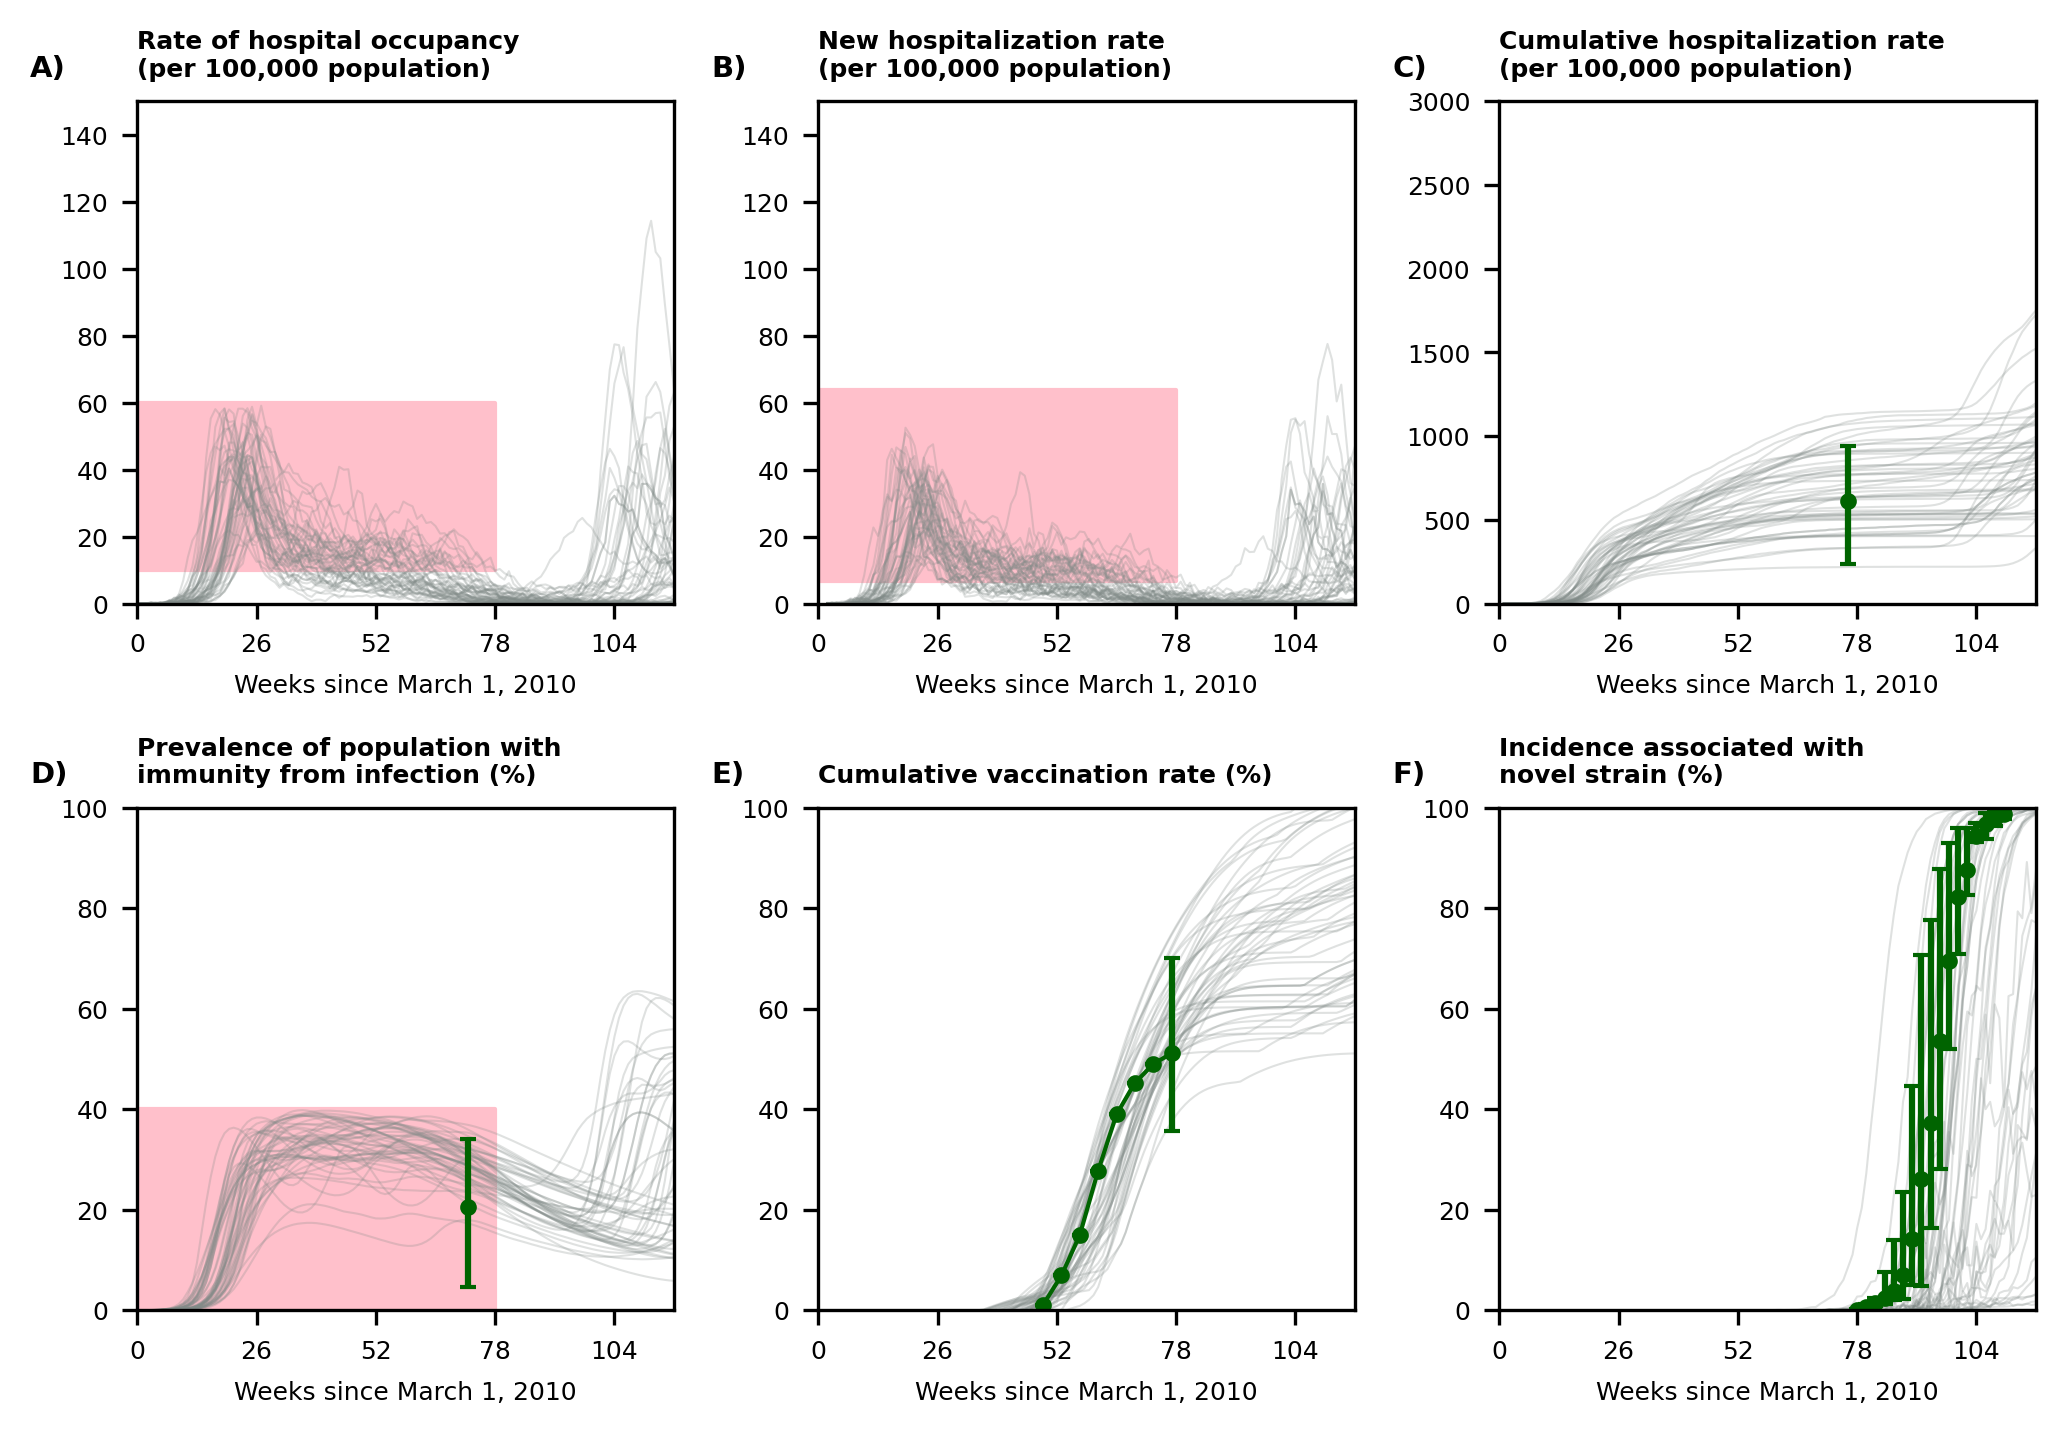
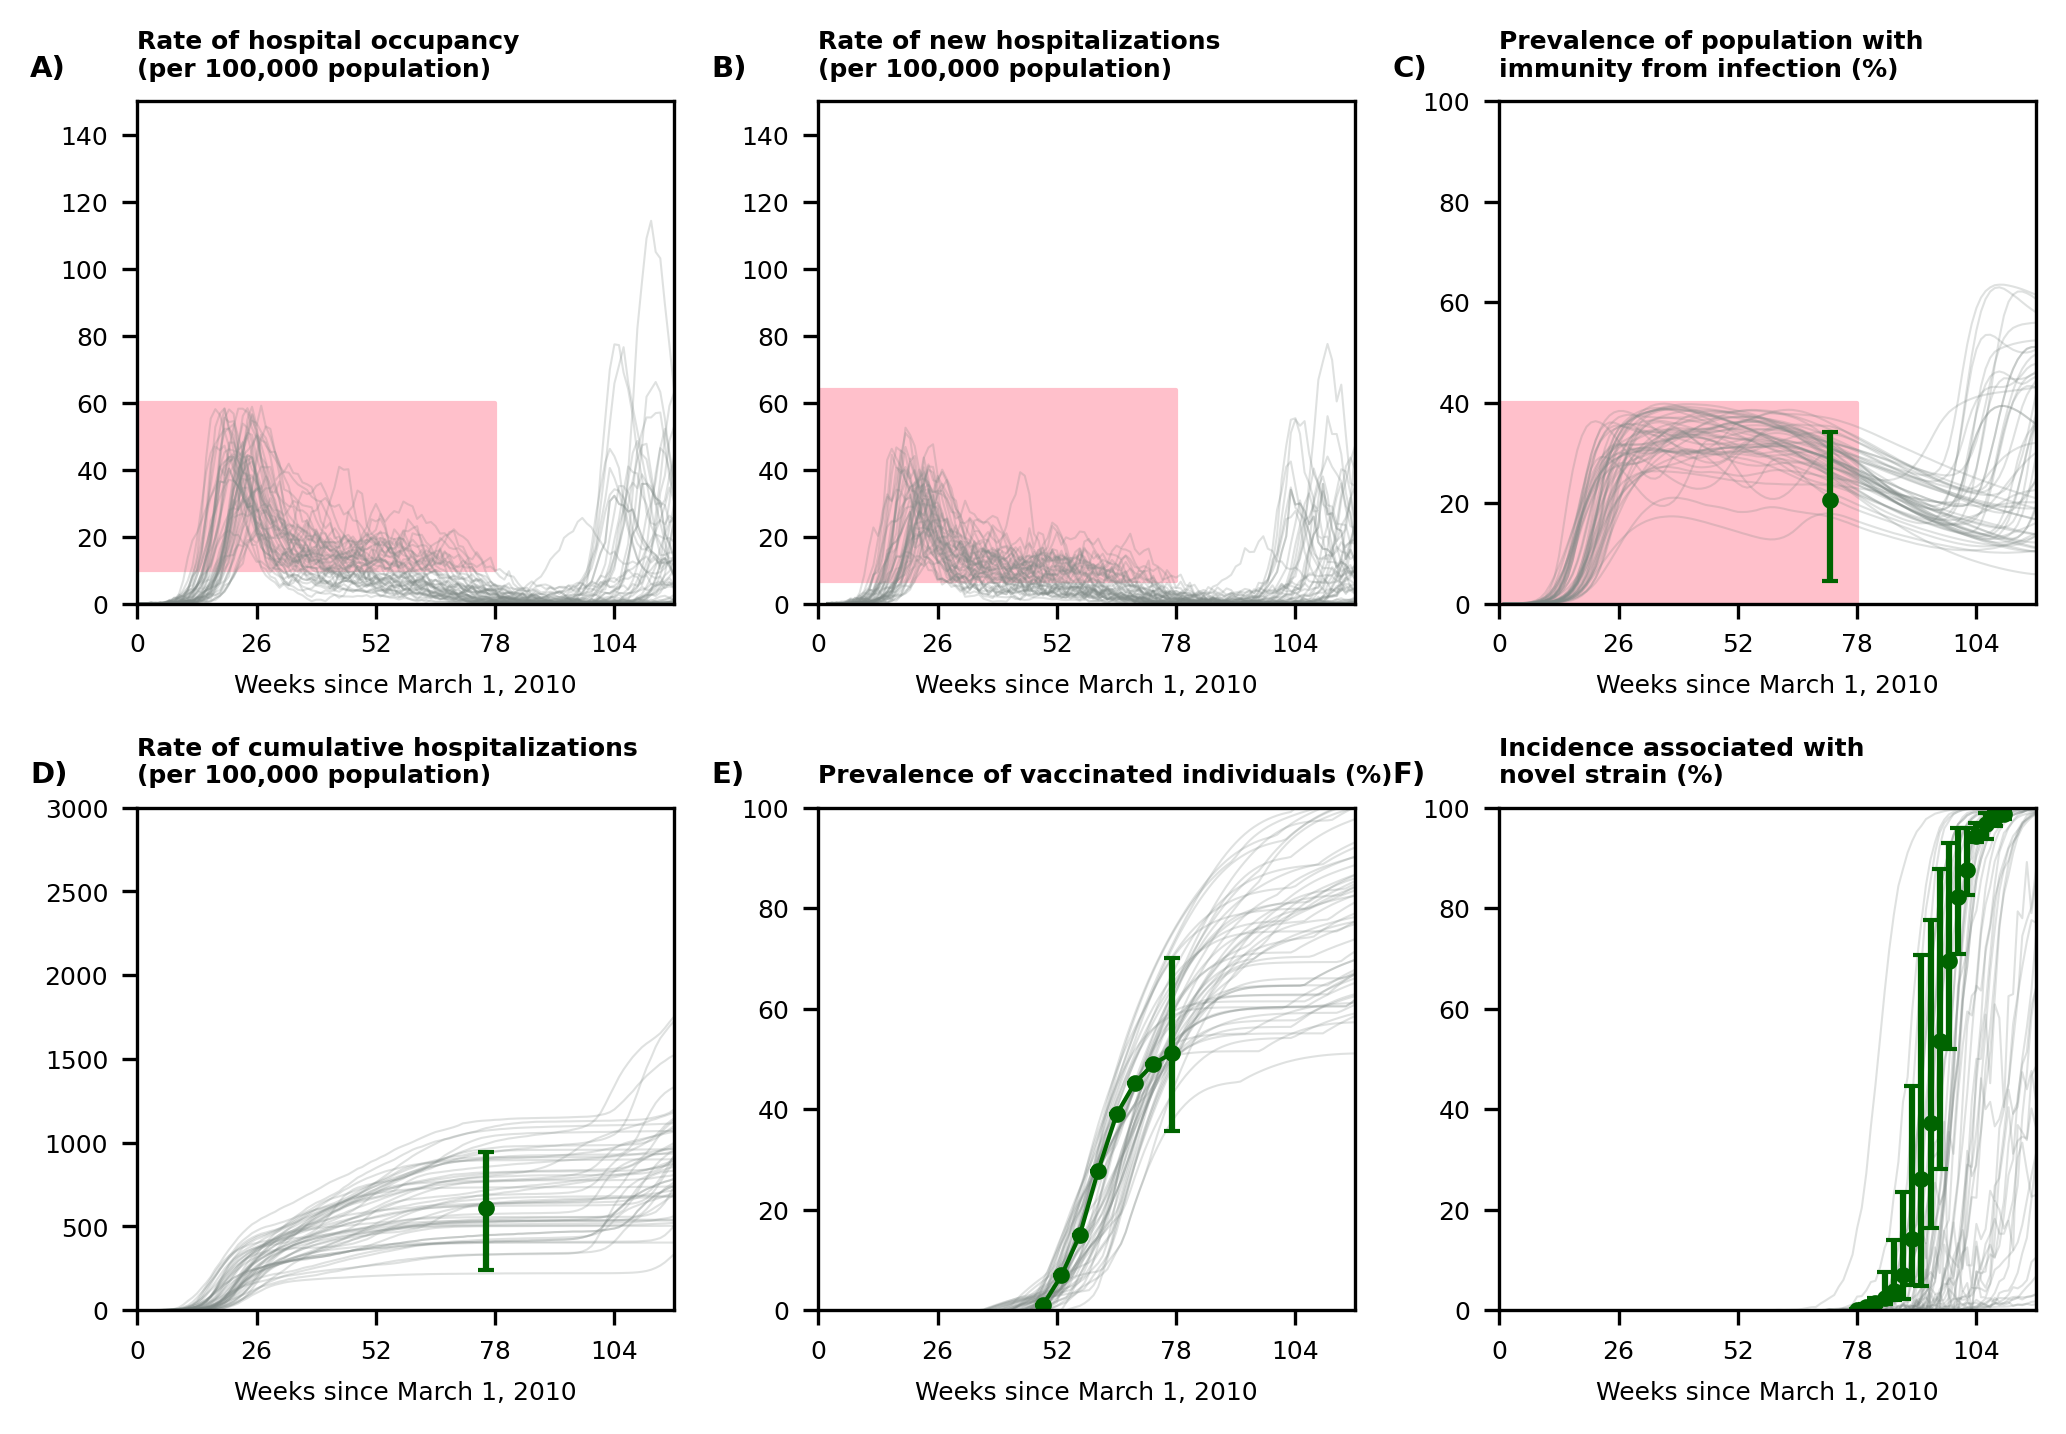
added hosp occupancy as calibration target

diff --git a/covid_visualization/plot_trajs.py b/covid_visualization/plot_trajs.py
@@ -139,8 +139,8 @@ def plot(prev_multiplier=52, incd_multiplier=1, obs_incd_multiplier=1, n_random_
                                   figure_size=(2.3*2, 2.4*2)
                                   )
     sim_outcomes.plot_multi_panel(n_rows=2, n_cols=3,
-                                  list_plot_info=[obs_hosp_occ_rate, obs_hosp_rate, obs_cum_hosp_rate,
-                                                  obs_prev_immune_from_inf, obs_cum_vacc_rate, obs_incd_novel],
+                                  list_plot_info=[obs_hosp_occ_rate, obs_hosp_rate, obs_prev_immune_from_inf,
+                                                  obs_cum_hosp_rate, obs_cum_vacc_rate, obs_incd_novel],
                                   file_name=ROOT_DIR+'/outputs/figures/summary.png',
                                   n_random_trajs_to_display=n_random_trajs_to_display,
                                   show_subplot_labels=True,
